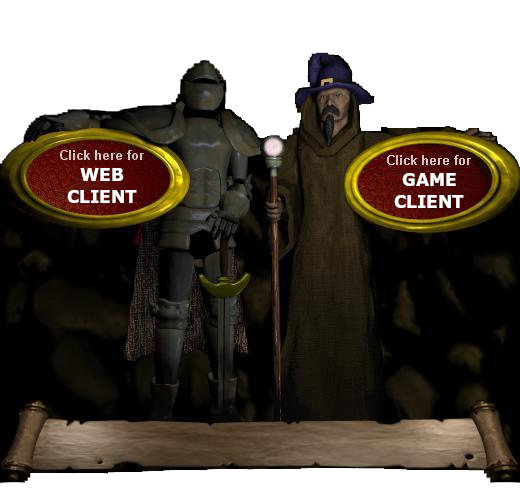
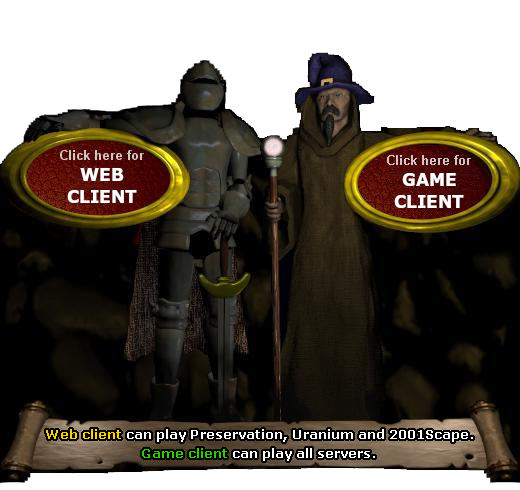
WP-21 | Separated homepage online worlds table into regular and botting worlds tables, changed server links to all link to new Play Now page, updated play now graphic, added aria-labels for invisible play now buttons

Changed region(s): [[0.0615, 0.8571, 0.9231, 0.949]]

diff --git a/portal/public/css/all.css b/portal/public/css/all.css
@@ -18126,8 +18126,46 @@ nav ul li:hover > ul {
   }
 }
 
+.homepage-world-differences {
+  font-size: 12px;
+  text-align: center;
+}
+
+.homepage-world-differences-link {
+  text-decoration: none;
+}
+
 .homepage-online-worlds-table {
-  width: 200px;
+  width: 170px;
+}
+@media (min-width: 768px) {
+  .homepage-online-worlds-table {
+    width: 200px;
+  }
+}
+
+.homepage-world-location {
+  display: table;
+  margin: 0 auto;
+}
+
+.homepage-world-type {
+  font-weight: bold;
+  text-align: center;
+}
+
+.homepage-world-link {
+  color: #90c040;
+  text-decoration: none;
+}
+
+.homepage-botting-worlds-list {
+  margin-left: 10px;
+}
+@media (min-width: 768px) {
+  .homepage-botting-worlds-list {
+    margin-left: 50px;
+  }
 }
 
 /** Hiscores Page **/

diff --git a/portal/resources/sass/pages/home.scss b/portal/resources/sass/pages/home.scss
@@ -27,6 +27,42 @@
     }
 }
 
+.homepage-world-differences {
+    font-size: 12px;
+    text-align: center;
+}
+
+.homepage-world-differences-link {
+    text-decoration: none;
+}
+
 .homepage-online-worlds-table {
-    width: 200px;
+    width: 170px;
+
+    @media (min-width: $tablet-breakpoint) {
+        width: 200px;
+    }
+}
+
+.homepage-world-location {
+    display: table;
+    margin: 0 auto;
+}
+
+.homepage-world-type {
+    font-weight: bold;
+    text-align: center;
+}
+
+.homepage-world-link {
+    color: $LinkColor;
+    text-decoration: none;
+}
+
+.homepage-botting-worlds-list {
+    margin-left: 10px;
+
+    @media (min-width: $tablet-breakpoint) {
+        margin-left: 50px;
+    }
 }

diff --git a/portal/resources/views/Home.blade.php b/portal/resources/views/Home.blade.php
@@ -93,85 +93,7 @@
                 <div class="pb-3"></div>
 
                 <!--World list-->
-                <table>
-                    <tbody>
-                    <tr>
-                        <td>
-                            <table class="homepage-content">
-                                <tbody>
-                                <tr>
-                                    <td>
-                                        <img src="{{ asset('img/fm_top.gif') }}" alt="">
-                                    </td>
-                                </tr>
-                                </tbody>
-                            </table>
-                            <table background="{{ asset('img/fm_middle.gif') }}" class="homepage-section-content">
-                                <tbody>
-                                <tr>
-                                    <td style="width: 7px;" background="{{ asset('img/fm_middle.gif') }}"></td>
-                                    <td>
-                                        <div class="pt-3"></div>
-
-                                        <span class="d-block text-center">
-                                            <b>Anyone may play on the worlds below</b>
-                                        </span>
-
-                                        <div class="pb-3"></div>
-
-                                        <div class="d-flex justify-content-center">
-                                            <table class="homepage-content homepage-online-worlds-table">
-                                                <tbody>
-
-                                                <!--World online counts-->
-                                                <tr>
-                                                    <td colspan="2">
-                                                        <img align="left" src="{{ asset('img/usflag.gif') }}" width="30"
-                                                             height="15" border="0">
-                                                        <span class="m-1">Raleigh</span>
-                                                    </td>
-                                                </tr>
-                                                @foreach($worlds as $world)
-                                                    @if(!$world["dev"])
-                                                        <tr>
-                                                            <td valign="center"><a
-                                                                        style="color: rgb(144, 192, 64) !important; TEXT-DECORATION: none;"
-                                                                        href="http://game.openrsc.com/play/{{$world['alias']}}/members">{{$world["name"]}}</a></td>
-                                                            <td align="right">
-                                                                @if ($world["type"] == "players")
-                                                                    <a
-                                                                            href="/onlinelist/{{$world['alias']}}"><font color="#ffffff">{{$world["online"]}} {{$world["type"]}}</font></a>
-                                                                @else
-                                                                    {{$world["online"]}} {{$world["type"]}}
-                                                                @endif
-                                                            </td>
-                                                        </tr>
-                                                    @endif
-                                                @endforeach
-                                                <!--end worlds-->
-                                                </tbody>
-                                            </table>
-                                        </div>
-
-                                        <div class="pb-3"></div>
-                                    </td>
-                                    <td style="width: 7px;" background="{{ asset('img/fm_middle.gif') }}"></td>
-                                </tr>
-                                </tbody>
-                            </table>
-                            <table style="padding: 0;">
-                                <tbody>
-                                <tr>
-                                    <td colspan="3">
-                                        <img src="{{ asset('img/fm_bottom.gif') }}" alt="">
-                                    </td>
-                                </tr>
-                                </tbody>
-                            </table>
-                        </td>
-                    </tr>
-                    </tbody>
-                </table>
+                @include('partials.homepage-worlds-table')
 
                 <div class="pb-3"></div>
 

diff --git a/portal/resources/views/partials/homepage-worlds-table.blade.php b/portal/resources/views/partials/homepage-worlds-table.blade.php
@@ -1,0 +1,58 @@
+<table>
+    <tbody>
+        <tr>
+            <td>
+                <table class="homepage-content">
+                    <tbody>
+                    <tr>
+                        <td>
+                            <img src="{{ asset('img/fm_top.gif') }}" alt="">
+                        </td>
+                    </tr>
+                    </tbody>
+                </table>
+                <table background="{{ asset('img/fm_middle.gif') }}" class="homepage-section-content">
+                    <tbody>
+                        <tr>
+                            <td style="width: 7px;" background="{{ asset('img/fm_middle.gif') }}"></td>
+                            <td>
+                                <div class="pt-3"></div>
+
+                                <span class="d-block text-center">
+                                    <b>Anyone may play on the worlds below</b>
+                                </span>
+
+                                <p class="homepage-world-differences">
+                                    Check <a href="/faq" class="homepage-world-differences-link">here</a> 
+                                    for world differences
+                                </p>
+
+                                <div class="pb-3"></div>
+
+                                <!-- World online counts -->
+                                <div class="d-flex justify-content-center">
+                                    <!-- Regular worlds -->
+                                    @include('partials.homepage-regular-worlds-list')
+                                    <!-- Botting worlds -->
+                                    @include('partials.homepage-botting-worlds-list')
+                                </div>
+
+                                <div class="pb-3"></div>
+                            </td>
+                            <td style="width: 7px;" background="{{ asset('img/fm_middle.gif') }}"></td>
+                        </tr>
+                    </tbody>
+                </table>
+                <table style="padding: 0;">
+                    <tbody>
+                    <tr>
+                        <td colspan="3">
+                            <img src="{{ asset('img/fm_bottom.gif') }}" alt="">
+                        </td>
+                    </tr>
+                    </tbody>
+                </table>
+            </td>
+        </tr>
+    </tbody>
+</table>

diff --git a/portal/resources/views/partials/homepage-regular-worlds-list.blade.php b/portal/resources/views/partials/homepage-regular-worlds-list.blade.php
@@ -1,0 +1,31 @@
+<table class="homepage-content homepage-online-worlds-table">
+    <tbody>
+        <tr>
+            <td colspan="2">
+                <p class="homepage-world-location">
+                    <img align="left" src="{{ asset('img/usflag.gif') }}" width="30" height="15" border="0">
+                    <span class="m-1">Raleigh</span>
+                </p>
+                <p class="homepage-world-type">Regular worlds</p>
+            </td>
+        </tr>
+        @foreach($worlds as $world)
+            @if(!$world["dev"] && $world["type"] == "players")
+                <tr>
+                    <td valign="center">
+                        <a href="/playnow" class="homepage-world-link">
+                            {{$world["name"]}}
+                        </a>
+                    </td>
+                    <td align="right">
+                        <a href="/onlinelist/{{$world['alias']}}">
+                            <font color="#ffffff">
+                                {{$world["online"]}} {{$world["type"]}}
+                            </font>
+                        </a>
+                    </td>
+                </tr>
+            @endif
+        @endforeach
+    </tbody>
+</table>

diff --git a/portal/resources/views/partials/homepage-botting-worlds-list.blade.php b/portal/resources/views/partials/homepage-botting-worlds-list.blade.php
@@ -1,0 +1,31 @@
+<table class="homepage-content homepage-online-worlds-table homepage-botting-worlds-list">
+    <tbody>
+        <tr>
+            <td colspan="2">
+                <p class="homepage-world-location">
+                    <img align="left" src="{{ asset('img/usflag.gif') }}" width="30" height="15" border="0">
+                    <span class="m-1">Raleigh</span>
+                </p>
+                <p class="homepage-world-type">Botting worlds</p>
+            </td>
+        </tr>
+        @foreach($worlds as $world)
+            @if(!$world["dev"] && $world["type"] == "cyborgs")
+                <tr>
+                    <td valign="center">
+                        <a href="/playnow"class="homepage-world-link">
+                            {{$world["name"]}}
+                        </a>
+                    </td>
+                    <td align="right">
+                        {{$world["online"]}} {{$world["type"]}}
+                    </td>
+                </tr>
+            @endif
+        @endforeach
+        <tr>
+            <td valign="center">&nbsp;</td>
+            <td align="right">&nbsp;</td>
+        </tr>
+    </tbody>
+</table>

diff --git a/portal/resources/views/playnow.blade.php b/portal/resources/views/playnow.blade.php
@@ -1,8 +1,10 @@
 @extends('template')
 @section('content')
     <div class="play-now-container">
-        <a href="/playnow/worldlist" class="play-now-left-button"></a>
-        <a href="{{ $gameClientUrl }}" class="play-now-right-button"></a>
+        <a href="/playnow/worldlist" class="play-now-left-button" 
+            aria-label="Play Open RSC servers via the web client"></a>
+        <a href="{{ $gameClientUrl }}" class="play-now-right-button"
+            aria-label="Play Open RSC servers via the game client (launcher)"></a>
         <img src="/img/PlayNowGraphic.png" class="play-now-image" 
             alt="Knight and Magician present two options for playing Open RSC servers" />
     </div>
